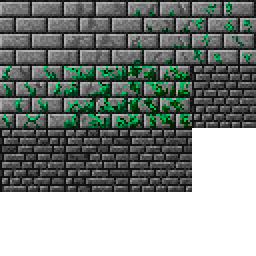
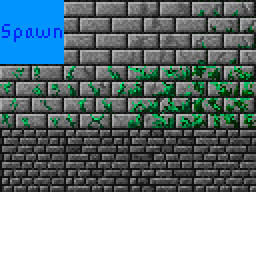
Player spawning and fireballs added, level changed.

diff --git a/game.js b/game.js
@@ -17,22 +17,39 @@
  */
 
  // Include all runtime things here
- 
+
+var projectileTime = 0;
+var projectileFired = false;
+var projectileDirection = "";
+var projectileName = "";
+var spawn = true;
+var playerThrowingHand = 0;
+var running = false;
+
 function update() {
+    if (spawn) {
+        spawn = false;
+        spawnPlayer();
+    }
+
     // Physics
     game.physics.arcade.collide(player, layerPlayer);
 
     // Controls
+    var canFire = true;
     // Running
-    var playerVel = PLAYER_SPEED;
-    if (isRunKeyDown()) {
-        playerVel = PLAYER_SPEED_RUN;
+    if (isRunKeyDown() && player.body.onFloor()) {
+        playerSpeed = PLAYER_SPEED_RUN;
+        running = true;
+    } else if (player.body.onFloor()) {
+    	playerSpeed = PLAYER_SPEED;
+        running = false;
     }
     // Left/right movement
     if (isLeftKeyDown() && !isRightKeyDown()) {
-        player.body.velocity.x = -playerVel;
+        player.body.velocity.x = -playerSpeed;
     } else if (isRightKeyDown() && !isLeftKeyDown()) {
-        player.body.velocity.x = playerVel;
+        player.body.velocity.x = playerSpeed;
     } else {
         player.body.velocity.x = 0;
     }
@@ -40,9 +57,82 @@ function update() {
     if (isUpKeyDown() && player.body.onFloor()) {
         player.body.velocity.y = PLAYER_JUMP_SPEED;
         playerJumpTime = game.time.now + PLAYER_JUMP_HOLD_TIME;
+        canFire = false;
     }
     if (isUpKeyDown() && !player.body.onFloor() && game.time.now < playerJumpTime) {
         player.body.velocity.y = PLAYER_JUMP_SPEED;
+        canFire = false;
+    }
+    // Firing
+    var firingDirection = "notFiring";
+    canFire &= isFireKeyDown() && player.body.onFloor() && !running && 
+        (playerDir == "standStill" || playerDir == "moveRight" || 
+        playerDir == "moveLeft" ||
+        player.animations.getAnimation("fireLeft0").isFinished ||
+        player.animations.getAnimation("fireRight0").isFinished ||
+        player.animations.getAnimation("fireLeft1").isFinished ||
+        player.animations.getAnimation("fireRight1").isFinished);
+    var firingLeft = player.animations.getAnimation("fireLeft0").isPlaying ||
+        player.animations.getAnimation("fireLeft1").isPlaying;
+    var firingRight = player.animations.getAnimation("fireRight0").isPlaying ||
+        player.animations.getAnimation("fireRight1").isPlaying;
+    var firingMoveLeft = (player.animations.getAnimation("fireMoveLeft0").isPlaying ||
+        player.animations.getAnimation("fireMoveLeft1").isPlaying);
+    var firingMoveRight = (player.animations.getAnimation("fireMoveRight0").isPlaying ||
+        player.animations.getAnimation("fireMoveRight1").isPlaying);
+    if (canFire || firingLeft || firingRight || firingMoveLeft || firingMoveRight) {
+        if (firingLeft || firingRight || firingMoveLeft || firingMoveRight) {
+            if (firingLeft) {
+                firingDirection = "fireLeft";
+            }
+            if (firingRight) {
+                firingDirection = "fireRight";
+            }
+            if (firingMoveLeft) {
+                firingDirection = "fireMoveLeft";
+            }
+            if (firingMoveRight) {
+                firingDirection = "fireMoveRight";
+            }
+        } else {
+            var angle = getAngleAtPointer(player.body.x - game.camera.x - 128, 
+                    player.body.y - game.camera.y);
+            if (angle < 90 || angle > 270) {
+                if (playerDir == "moveRight" || playerDir == "moveLeft" ||
+                        playerDir == "fireMoveRight0" || playerDir == "fireMoveRight1" ||
+                        playerDir == "fireMoveLeft0" || playerDir == "fireMoveLeft1") {
+                    firingDirection = "fireMoveRight";
+                } else {
+                    firingDirection = "fireRight";
+                }
+                projectileName = "fireball";
+                projectileFired = true;
+                projectileTime = game.time.now + 1000 / 12 * 3;
+                projectileDirection = "right";
+            } else {
+                if (playerDir == "moveRight" || playerDir == "moveLeft" ||
+                        playerDir == "fireMoveRight0" || playerDir == "fireMoveRight1" ||
+                        playerDir == "fireMoveLeft0" || playerDir == "fireMoveLeft1") {
+                    firingDirection = "fireMoveLeft";
+                } else {
+                    firingDirection = "fireLeft";
+                }
+                projectileName = "fireball";
+                projectileFired = true;
+                projectileTime = game.time.now + 1000 / 12 * 3;
+                projectileDirection = "left";
+            }
+            changePlayerThrowingHand();
+            playerDir = "placeholderSoTheAnimationWillRepeatWhenRapidFire";
+        }
+    }
+    if (projectileFired && game.time.now > projectileTime) {
+        projectileFired = false;
+        if (projectileDirection == "right") {
+            fireProjectile(player, 64, 43, "right", projectileName);
+        } else {
+            fireProjectile(player, 19, 43, "left", projectileName);
+        }
     }
 
     // Animations
@@ -57,10 +147,8 @@ function update() {
             playerDir = "moveLeft";
         } else if (playerDir != "runLeft" && velX == -PLAYER_SPEED_RUN && !inAir) {
             playerDir = "runLeft";
-        } else if (playerDir != "jumpLeft" && velX == -PLAYER_SPEED && inAir) {
+        } else if (playerDir != "jumpLeft" && inAir) {
             playerDir = "jumpLeft";
-        } else if (playerDir != "flyLeft" && velX == -PLAYER_SPEED_RUN && inAir) {
-            playerDir = "flyLeft";
         }
     } else if (velX > 0) {
         // Moving right
@@ -68,10 +156,8 @@ function update() {
             playerDir = "moveRight";
         } else if (playerDir != "runRight" && velX == PLAYER_SPEED_RUN && !inAir) {
             playerDir = "runRight";
-        } else if (playerDir != "jumpRight" && velX == PLAYER_SPEED && inAir) {
+        } else if (playerDir != "jumpRight" && inAir) {
             playerDir = "jumpRight";
-        } else if (playerDir != "flyRight" && velX == PLAYER_SPEED_RUN && inAir) {
-            playerDir = "flyRight";
         }
     } else {
         // Standing still
@@ -81,6 +167,9 @@ function update() {
             playerDir = "jumpStill";
         }
     }
+    if (firingDirection != "notFiring") {
+    	playerDir = firingDirection + playerThrowingHand;
+    }
     // If animation changed, play it
     if (lastPlayerDir != playerDir) {
         player.animations.play(playerDir);
@@ -88,4 +177,19 @@ function update() {
 
     // Focus camera on player
     game.camera.focusOnXY(player.body.x + 32, player.body.y + 32);
+}
+
+function getAngleAtPointer(x, y) {
+    var angle = Math.atan2(y - game.input.activePointer.y, 
+        x - game.input.activePointer.x) * 180 / Math.PI + 180;
+    return angle;
+}
+
+function changePlayerThrowingHand() {
+    if (playerThrowingHand == 0) {
+        playerThrowingHand = 1;
+    } else {
+        playerThrowingHand = 0;
+    }
+    return playerThrowingHand;
 }

diff --git a/init.js b/init.js
@@ -26,6 +26,7 @@ var layerForeground;
 
 // Player
 var player;
+var playerSpeed;
 var playerJumpTime = 0;
 var playerDir = "right";
 
@@ -61,7 +62,7 @@ function create() {
     // Player
     player = game.add.sprite(0, 0, "player");
     game.physics.enable(player, Phaser.Physics.ARCADE);
-    //player.body.collideWorldBounds = true;
+    player.body.collideWorldBounds = true;
     player.animations.add("moveRight", [0, 1, 2, 1], 6, true);
     player.animations.add("moveLeft", [5, 4, 3, 4], 6, true);
     player.animations.add("standStill", [6], 10, true);
@@ -72,10 +73,24 @@ function create() {
     player.animations.add("runLeft", [21, 20, 19, 20], 11, true);
     player.animations.add("flyRight", [22, 23, 24, 23], 11, true);
     player.animations.add("flyLeft", [27, 26, 25, 26], 11, true);
+    player.animations.add("fireRight0", [28, 29, 30, 30, 31], 12, false);
+    player.animations.add("fireRight1", [32, 33, 34, 34, 35], 12, false);
+    player.animations.add("fireLeft0", [43, 42, 41, 41, 40], 12, false);
+    player.animations.add("fireLeft1", [39, 38, 37, 37, 36], 12, false);
+    player.animations.add("fireMoveRight0", [44, 45, 46, 46, 47], 12, false);
+    player.animations.add("fireMoveRight1", [48, 49, 50, 50, 51], 12, false);
+    player.animations.add("fireMoveLeft0", [59, 58, 57, 57, 56], 12, false);
+    player.animations.add("fireMoveLeft1", [55, 54, 53, 53, 52], 12, false);
     player.body.setSize(48, 116, 40, 12);
     player.body.maxVelocity.y = PLAYER_MAX_FALLING_SPEED;
     player.frame = 6;
 
     // Gravity
     game.physics.arcade.gravity.y = GRAVITY;
+}
+
+function spawnPlayer() {
+	var spawnTile = map.searchTileIndex(1, 0, false, layerPlayer);
+	player.position.setTo(spawnTile.x * map.tileWidth, spawnTile.y * map.tileHeight);
+	map.removeTile(spawnTile.x, spawnTile.y, layerPlayer);
 }

diff --git a/actions.js b/actions.js
@@ -16,11 +16,24 @@
  *  along with this program.  If not, see <http://www.gnu.org/licenses/>.
  */
 
- // Load files here
+// Include all actions used by objects ingame eg. player firing a fireball
 
-function preload() {
-    game.load.tilemap("level", "assets/levels/map.json", null, Phaser.Tilemap.TILED_JSON);
-    game.load.image("sheet", "assets/gfx/sheet.png", 64, 64);
-    game.load.image("fireball", "assets/gfx/fireball.png");
-    game.load.spritesheet("player", "assets/gfx/player.png", 128, 128);
-};
+// Fireball init
+var FIREBALL_SPEED = 1500;
+
+function fireProjectile(parent, xOffset, yOffset, direction, name) {
+    var projectile = game.add.sprite(0, 0, name);
+    projectile.anchor.setTo(0.5, 0.5);
+    game.physics.enable(projectile, Phaser.Physics.ARCADE);
+    projectile.body.gravity.y = -GRAVITY;
+    projectile.checkWorldBounds = true;
+    projectile.outOfBoundsKill = true;
+    projectile.reset(parent.body.x + xOffset, parent.body.y + yOffset);
+    projectile.anchor.setTo(0.5, 0.5);
+    if (direction == "left") {
+        projectile.body.velocity.x = -FIREBALL_SPEED;
+    }
+    if (direction == "right") {
+        projectile.body.velocity.x = FIREBALL_SPEED;
+    }
+}

diff --git a/input.js b/input.js
@@ -41,3 +41,21 @@ function isRunKeyDown() {
     isDown = game.input.keyboard.isDown(Phaser.Keyboard.SHIFT);
     return isDown;
 }
+
+function getMouseX() {
+	var coord = 0;
+	coord = game.input.x;
+	return coord;
+}
+
+function getMouseY() {
+	var coord = 0;
+	coord = game.input.y;
+	return coord;
+}
+
+function isFireKeyDown() {
+	var isDown = false;
+	isDown = game.input.activePointer.isDown;
+	return isDown;
+}

diff --git a/index.html b/index.html
@@ -8,6 +8,7 @@
     <script type="text/javascript" src="input.js"></script>
     <script type="text/javascript" src="preload.js"></script>
     <script type="text/javascript" src="init.js"></script>
+    <script type="text/javascript" src="actions.js"></script>
     <script type="text/javascript" src="game.js"></script>
     <script type="text/javascript" src="main.js"></script>
 </head>
